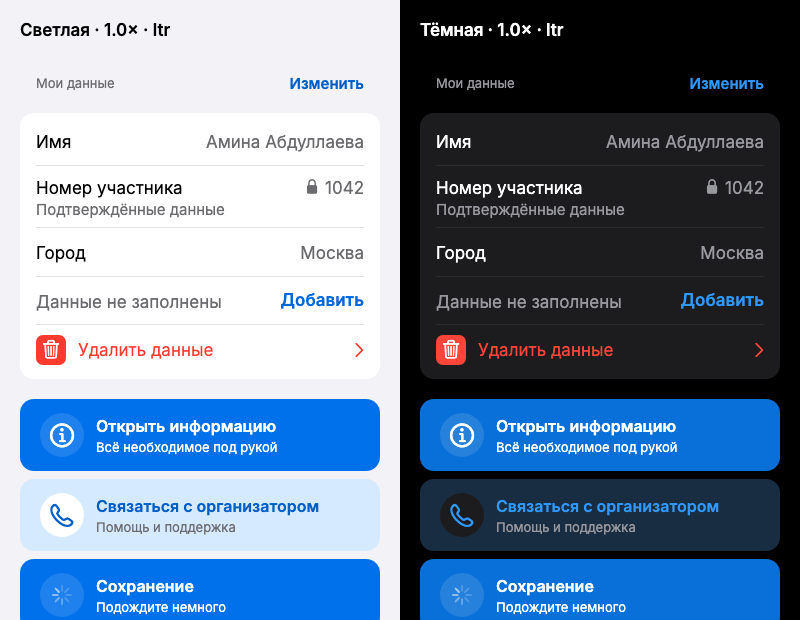
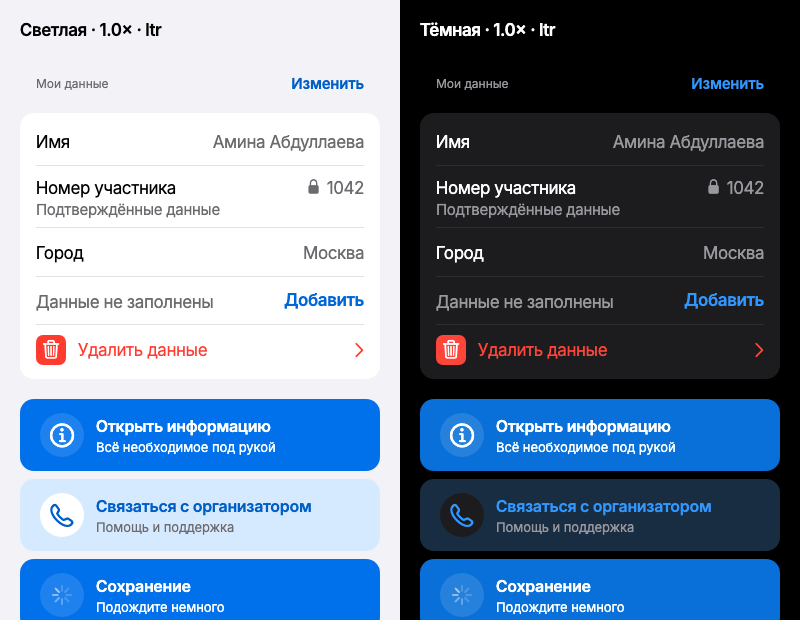
Align profile typography with Apple iOS text styles

diff --git a/packages/academy_ui/lib/src/theme/academy_typography.dart b/packages/academy_ui/lib/src/theme/academy_typography.dart
@@ -7,6 +7,7 @@ enum AcademyTextRole {
   bodyStrong,
   bodyDetail,
   caption,
+  footnote,
   labelMedium,
   actionTitle,
   bodyMedium,
@@ -73,12 +74,18 @@ class AcademyTypography {
     }
     const anchors = <List<double>>[
       [10, .12],
+      [11, .06],
+      [12, 0],
       [13, -.08],
-      [15, -.24],
+      [14, -.15],
+      [15, -.23],
+      [16, -.31],
       [17, -.43],
+      [18, -.44],
+      [19, -.45],
     ];
     if (size <= 10) return .12;
-    if (size >= 17) return -.43;
+    if (size >= 19) return -.45;
     for (var i = 0; i < anchors.length - 1; i++) {
       final lo = anchors[i], hi = anchors[i + 1];
       if (size >= lo[0] && size <= hi[0]) {
@@ -93,7 +100,8 @@ class AcademyTypography {
       AcademyTextRole.bodyRow => (17.0, FontWeight.w400),
       AcademyTextRole.bodyStrong => (17.0, FontWeight.w600),
       AcademyTextRole.bodyDetail => (15.0, FontWeight.w400),
-      AcademyTextRole.caption => (13.0, FontWeight.w400),
+      AcademyTextRole.caption => (12.0, FontWeight.w400),
+      AcademyTextRole.footnote => (13.0, FontWeight.w400),
       AcademyTextRole.labelMedium => (15.0, FontWeight.w600),
       AcademyTextRole.actionTitle => (16.0, FontWeight.w600),
       AcademyTextRole.bodyLarge => (17.0, FontWeight.w400),
@@ -136,8 +144,9 @@ class AcademyTypography {
       height: switch (role) {
         AcademyTextRole.bodyRow || AcademyTextRole.bodyStrong => 22 / 17,
         AcademyTextRole.bodyDetail || AcademyTextRole.labelMedium => 20 / 15,
-        AcademyTextRole.caption => 18 / 13,
-        AcademyTextRole.actionTitle => 22 / 16,
+        AcademyTextRole.caption => 16 / 12,
+        AcademyTextRole.footnote => 18 / 13,
+        AcademyTextRole.actionTitle => 21 / 16,
         _ => null,
       },
       color: color,
@@ -148,6 +157,7 @@ class AcademyTypography {
   TextStyle get bodyStrong => style(AcademyTextRole.bodyStrong);
   TextStyle get bodyDetail => style(AcademyTextRole.bodyDetail);
   TextStyle get caption => style(AcademyTextRole.caption);
+  TextStyle get footnote => style(AcademyTextRole.footnote);
   TextStyle get labelMedium => style(AcademyTextRole.labelMedium);
   TextStyle get actionTitle => style(AcademyTextRole.actionTitle);
   TextStyle get bodyLarge => style(AcademyTextRole.bodyLarge);

diff --git a/packages/academy_ui/test/profile_components_test.dart b/packages/academy_ui/test/profile_components_test.dart
@@ -274,10 +274,18 @@ void main() {
         final label = tester.getRect(find.text('Данные не заполнены'));
         if (direction == TextDirection.ltr) {
           expect(action.right, closeTo(304, .01));
-          expect(action.left, greaterThan(label.right));
+          if (scale == 1) {
+            expect(action.left, greaterThan(label.right));
+          }
         } else {
           expect(action.left, closeTo(16, .01));
-          expect(action.right, lessThan(label.left));
+          if (scale == 1) {
+            expect(action.right, lessThan(label.left));
+          }
+        }
+        if (scale == 2) {
+          expect(action.top, greaterThan(label.bottom));
+          expect(label.width, closeTo(288, .01));
         }
         expect(tester.takeException(), isNull);
       });
@@ -329,7 +337,7 @@ void main() {
     }
   }
 
-  testWidgets('profile typography matches reference sizes and weights', (
+  testWidgets('profile typography follows Apple iOS text styles', (
     tester,
   ) async {
     await tester.pumpWidget(
@@ -380,12 +388,12 @@ void main() {
       ),
     );
     for (final (text, size, weight, height) in [
-      ('Секция', 13.0, FontWeight.w400, 18 / 13),
+      ('Секция', 12.0, FontWeight.w400, 16 / 12),
       ('Изменить', 15.0, FontWeight.w600, 20 / 15),
-      ('Крупное действие', 16.0, FontWeight.w600, 22 / 16),
+      ('Крупное действие', 16.0, FontWeight.w600, 21 / 16),
       ('Подпись кнопки', 13.0, FontWeight.w400, 18 / 13),
       ('Таблетка', 15.0, FontWeight.w600, 20 / 15),
-      ('Подпись статистики', 13.0, FontWeight.w400, 18 / 13),
+      ('Подпись статистики', 12.0, FontWeight.w400, 16 / 12),
       ('Значение статистики', 15.0, FontWeight.w600, 20 / 15),
       ('Название этапа', 17.0, FontWeight.w600, 22 / 17),
       ('Дата этапа', 13.0, FontWeight.w400, 18 / 13),

diff --git a/apps/academy_ui_catalog/tool/capture_profile_components_test.dart b/apps/academy_ui_catalog/tool/capture_profile_components_test.dart
@@ -1,4 +1,5 @@
-// Capture the same widgets as the catalog; Inter substitutes for system fonts.
+// Capture catalog widgets with local SF Pro on macOS; Inter elsewhere.
+// System font files are used only for previews and never bundled with the app.
 import 'dart:io';
 import 'dart:ui' as ui;
 
@@ -6,6 +7,7 @@ import 'package:academy_ui/academy_ui.dart';
 import 'package:academy_ui_catalog/profile_components_catalog.dart';
 import 'package:flutter/cupertino.dart';
 import 'package:flutter/rendering.dart';
+import 'package:flutter/services.dart';
 import 'package:flutter_test/flutter_test.dart';
 
 import '../../../packages/academy_ui/tool/capture_controls_test.dart'
@@ -61,6 +63,18 @@ void main() {
     tester.view.devicePixelRatio = 1;
     addTearDown(tester.view.reset);
     await fonts();
+    final systemFont = File('/System/Library/Fonts/SFNS.ttf');
+    if (Platform.isMacOS && systemFont.existsSync()) {
+      await tester.runAsync(() async {
+        final bytes = ByteData.sublistView(await systemFont.readAsBytes());
+        for (final family in [
+          'CupertinoSystemText',
+          'CupertinoSystemDisplay',
+        ]) {
+          await (FontLoader(family)..addFont(Future.value(bytes))).load();
+        }
+      });
+    }
     for (final mode in [0, 1, 2]) {
       final large = mode == 1;
       final detail = mode == 2;
@@ -124,5 +138,5 @@ void main() {
       });
     }
     await tester.pumpWidget(const SizedBox());
-  });
+  }, variant: TargetPlatformVariant.only(TargetPlatform.iOS));
 }

diff --git a/packages/academy_ui/lib/src/widgets/table/academy_row.dart b/packages/academy_ui/lib/src/widgets/table/academy_row.dart
@@ -161,6 +161,20 @@ class AcademyRow extends StatelessWidget {
                                   color: theme.colorScheme.accentForeground,
                                 ),
                               );
+                              if (MediaQuery.textScalerOf(context).scale(1) >=
+                                  AcademyTokens.adaptiveTextScale) {
+                                return Column(
+                                  crossAxisAlignment:
+                                      CrossAxisAlignment.stretch,
+                                  children: [
+                                    titleText,
+                                    const SizedBox(
+                                      height: AcademyTokens.labelGap,
+                                    ),
+                                    actionText,
+                                  ],
+                                );
+                              }
                               return Row(
                                 children: [
                                   Expanded(child: titleText),

diff --git a/packages/academy_ui/lib/src/widgets/button/academy_action_button.dart b/packages/academy_ui/lib/src/widgets/button/academy_action_button.dart
@@ -101,7 +101,7 @@ class AcademyActionButton extends StatelessWidget {
                             padding: theme.paddings.rowSubtitle,
                             child: Text(
                               subtitle!,
-                              style: theme.textTheme.caption.copyWith(
+                              style: theme.textTheme.footnote.copyWith(
                                 color: tinted && !disabled
                                     ? p.onSurfaceVariant
                                     : foreground,

diff --git a/packages/academy_ui/lib/src/widgets/timeline/academy_timeline.dart b/packages/academy_ui/lib/src/widgets/timeline/academy_timeline.dart
@@ -118,7 +118,7 @@ class AcademyTimeline extends StatelessWidget {
                           ),
                           Text(
                             items[i].date,
-                            style: theme.textTheme.caption.copyWith(
+                            style: theme.textTheme.footnote.copyWith(
                               color: p.onSurfaceVariant,
                             ),
                           ),

diff --git a/docs/tasks/2026-10-03-yalla-profile-components/task.md b/docs/tasks/2026-10-03-yalla-profile-components/task.md
@@ -53,7 +53,7 @@ Ownership: компоненты не владеют данными и состо
 
 - До начала работы все текущие данные сохранены по прямому указанию владельца в `ccabb26` (184 файла). Параллельные изменения, появившиеся позже, сохранены вне коммита этой задачи.
 - Цвета сверены с макетом через браузер (веб-reader не открывал ссылку). Светлые значения: person #007AFF, trip #FF9500, document #34C759, alert #FF3B30, calendar #30B0C7, settings #8E8E93, info #5856D6, hotel #AF52DE, passport #A2845E. Тёмные — системные dynamic colors. Снимки приложены для окончательной оценки владельцем.
-- Нативный VoiceOver и физическое устройство не проверялись; сессии владельца не изменялись. Для headless-снимков системный шрифт заменён Inter.
+- Нативный VoiceOver и физическое устройство не проверялись; сессии владельца не изменялись. Для текущих headless-снимков на macOS загружается локальный SF Pro (без включения системного шрифта в приложение); на других ОС остаётся Inter. Растеризация на реальном iPhone не проверялась.
 
 ## Phase log
 
@@ -72,3 +72,23 @@ Ownership: компоненты не владеют данными и состо
 ## Documentation status
 
 README пакета и каталога обновлены; реализация и проверки описаны выше.
+
+## Apple typography
+
+По указанию владельца приоритет для типографики — [Apple HIG](https://developer.apple.com/design/human-interface-guidelines/typography#Large-default), а не размеры HTML-макета. Используется шкала iOS при стандартном размере Dynamic Type:
+
+| Элемент | Стиль Apple | Размер / высота строки |
+| --- | --- | --- |
+| Подпись и значение строки | Body Regular | 17 / 22 |
+| Заголовок этапа, действие строки | Headline / emphasized Body | 17 / 22, Semibold |
+| Заголовок большой кнопки | emphasized Callout | 16 / 21, Semibold |
+| Малые кнопки и значения статистики | emphasized Subhead | 15 / 20, Semibold |
+| Описание этапа | Subhead Regular | 15 / 20 |
+| Даты и пояснения большой кнопки | Footnote Regular | 13 / 18 |
+| Заголовок секции с действием, подпись статистики | Caption 1 Regular | 12 / 16 |
+
+Распределение стилей по элементам — решение библиотеки; HIG определяет шкалу, но не предписывает каждому кастомному компоненту конкретный стиль. Сохранены системный шрифт, масштабирование текста, адаптивная композиция при 2×, RTL и зона нажатия минимум 44. Значения tracking для 11–19 pt уточнены по таблице SF Pro; API переопределений клиентской типографики сохранён.
+
+- 2026-10-03: типографика профиля приведена к шкале iOS; Caption отделён от Footnote, Callout получил высоту строки 21. Capture на macOS использует локальный SF Pro вместо Inter. При крупном тексте AcademyRow.action переносит действие под подпись, сохраняя выравнивание у конца строки: подпись получает полную ширину и слова не разрываются из-за соседней кнопки.
+
+Проверка Apple-правок: полный набор библиотеки — 200 тестов; после адаптации строки повторены 21 профильный тест и 2 проверки каталога/capture. Обе темы и 2× RTL просмотрены с локальным SF Pro. Анализ пакета и каталога и web-сборка прошли.
